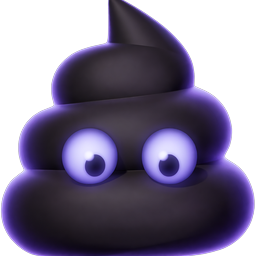
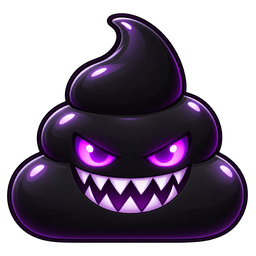
v0.8.20 다크똥을 새 그림체로 — 무서운 표정 5종

diff --git a/index.html b/index.html
@@ -1136,7 +1136,7 @@
   const elTitle = document.getElementById("overTitle");
   const coinNote = document.getElementById("coinNote");
 
-  const GAME_VERSION = "v0.8.19";
+  const GAME_VERSION = "v0.8.20";
   /* 제작사 스플래시(bamhobak friends 로고) — 2026-09-20 끔. 다시 켜려면 true */
   const SPLASH_USE = false;   // 코드를 고칠 때마다 뒤 두 자리를 올린다
   document.getElementById("ver").textContent = GAME_VERSION;
@@ -1978,21 +1978,27 @@
      0 = 기본 얼굴, 1~15 = 화남·선글라스·X눈·부끄럼·식은땀·하트눈·별눈·졸림·윙크·깜짝·울음·해적 안대·왕관·콧수염·고양이 입.
      예전엔 한 그림 위에 눈썹·선글라스·눈동자 같은 장식을 코드로 얹었는데, 표정이 그림 안에 다 들어가서 그 장치는 뺐다.
      칸마다 캔버스로 잘라 두어 테두리(rimOf)·필터가 한 장짜리 그림처럼 다룬다. 아직 안 왔으면 ITEM_IMG.poop(기본 얼굴). */
-  const POOP_FACES = [];
-  {
+  /* 가로 cols 칸짜리 표정 시트를 칸마다 캔버스로 잘라 list 에 채운다 (다 잘린 뒤 한꺼번에) */
+  function loadFaceSheet(file, cols, n, list) {
     const sh = new Image();
     sh.onload = () => {
-      const c = sh.width / 4, list = [];
-      for (let i = 0; i < 16; i++) {
+      const c = sh.width / cols, out = [];
+      for (let i = 0; i < n; i++) {
         const cv = document.createElement("canvas");
         cv.width = cv.height = c;
-        cv.getContext("2d").drawImage(sh, (i % 4) * c, Math.floor(i / 4) * c, c, c, 0, 0, c, c);
-        list.push(cv);
+        cv.getContext("2d").drawImage(sh, (i % cols) * c, Math.floor(i / cols) * c, c, c, 0, 0, c, c);
+        out.push(cv);
       }
-      POOP_FACES.push(...list);
+      list.push(...out);
     };
-    sh.src = "assets/poop_faces.webp";
+    sh.src = "assets/" + file;
   }
+  const POOP_FACES = [];
+  loadFaceSheet("poop_faces.webp", 4, 16, POOP_FACES);
+  /* v0.8.20 다크똥도 같은 몸통을 새까맣게, 무서운 표정 5가지로 (Codex) — 톱니 이빨·빨간 눈 송곳니·텅 빈 흰 눈·
+     노란 고양이 눈·포효. 한 줄 시트(5칸). 0번 칸은 item_dark_poop.png 로도 둔다(시트가 오기 전 대체). */
+  const DARK_FACES = [];
+  loadFaceSheet("dark_faces.webp", 5, 5, DARK_FACES);
   /* 지대 배경 그림 — 잔디밭부터 블랙홀 안까지 18장.
      전부 합쳐 140KB 남짓이라 처음에 다 받아 둔다.
      2026-09-22 18장 전부 방울이 그림체(부드러운 테두리·파스텔)로 다시 그렸다 — OpenAI, 2~18 은 tools/gen_zones.py
@@ -11015,7 +11021,8 @@
           ctx.beginPath(); ctx.arc(0, 0, it.size * 0.72, 0, 6.283); ctx.stroke();
         }
         // 똥도 같은 3D 그림 (무지개똥 필터는 그림에도 먹는다). 다크똥만 제 그림을 쓴다.
-        const ii = it.dark ? (ITEM_IMG.darkpoop || ITEM_IMG[it.type])
+        if (it.dark && it.dv === undefined) it.dv = Math.floor(Math.random() * 5);   // 다크똥 표정 — 처음 그릴 때 정한다
+        const ii = it.dark ? (DARK_FACES[it.dv] || ITEM_IMG.darkpoop || ITEM_IMG[it.type])
                  : it.img ? (ITEM_IMG[it.img] || ITEM_IMG[it.type])
                  : (it.type === "poop" && POOP_FACES.length) ? POOP_FACES[it.pv || 0] : ITEM_IMG[it.type];
         if (ii) {

diff --git a/README.md b/README.md
@@ -5,7 +5,7 @@
 👉 **플레이: https://bamhobak.github.io/ddongpi/**
 
 > 이 문서는 `index.html` 의 실제 값을 옮겨 적은 것입니다. 숫자를 고쳤으면 여기도 같이 고쳐 주세요.
-> 마지막으로 맞춰 본 판: **v0.8.19**
+> 마지막으로 맞춰 본 판: **v0.8.20**
 
 ## 조작
 - 📱 모바일: 화면 아무 데나 손가락을 대고 좌우로 **끌기** (누른 자리가 기준점 — 순간이동하지 않음). 조작은 이 하나뿐입니다 — 십자패드는 v0.8.02 에 없앴습니다
@@ -452,6 +452,8 @@
 - 몸통 폭을 16장 모두 같게(칸의 94%) 맞춰 넣어서 표정이 바뀌어도 크기가 같습니다.
 - 절반쯤은 좌우를 뒤집어 그립니다(v0.8.18, 처음 그릴 때 정해 둔다) — 안대·땀방울·윙크도 반대편으로 갑니다.
 - 예전(v0.8.18 까지)엔 그림 한 장 위에 눈썹·선글라스·눈동자 같은 장식을 코드로 덧그렸는데, 표정을 통째로 그린 그림으로 바꾸며 그 장치는 뺐습니다.
+- **다크똥**(블랙홀 안)도 같은 몸통을 새까맣게 칠한 무서운 표정 5가지(톱니 이빨·빨간 눈 송곳니·텅 빈 흰 눈·노란 고양이 눈·포효) 중 하나로 나옵니다 — v0.8.20, `assets/dark_faces.webp`(한 줄 5칸).
+  보랏빛 기운·보라 테두리는 그대로 얹힙니다. **무지개똥**은 따로 그림 없이 기본 얼굴 그림에 무지개 띠를 입혀 만듭니다.
 - 모양만 다른 몸통 8종도 뽑아 봤으나(키 큰·납작한·울퉁불퉁…) 동그란 판정원과 어긋나는 게 있어 3단 소용돌이 하나만 씁니다.
 
 ## 그림 뽑기 (OpenAI)
